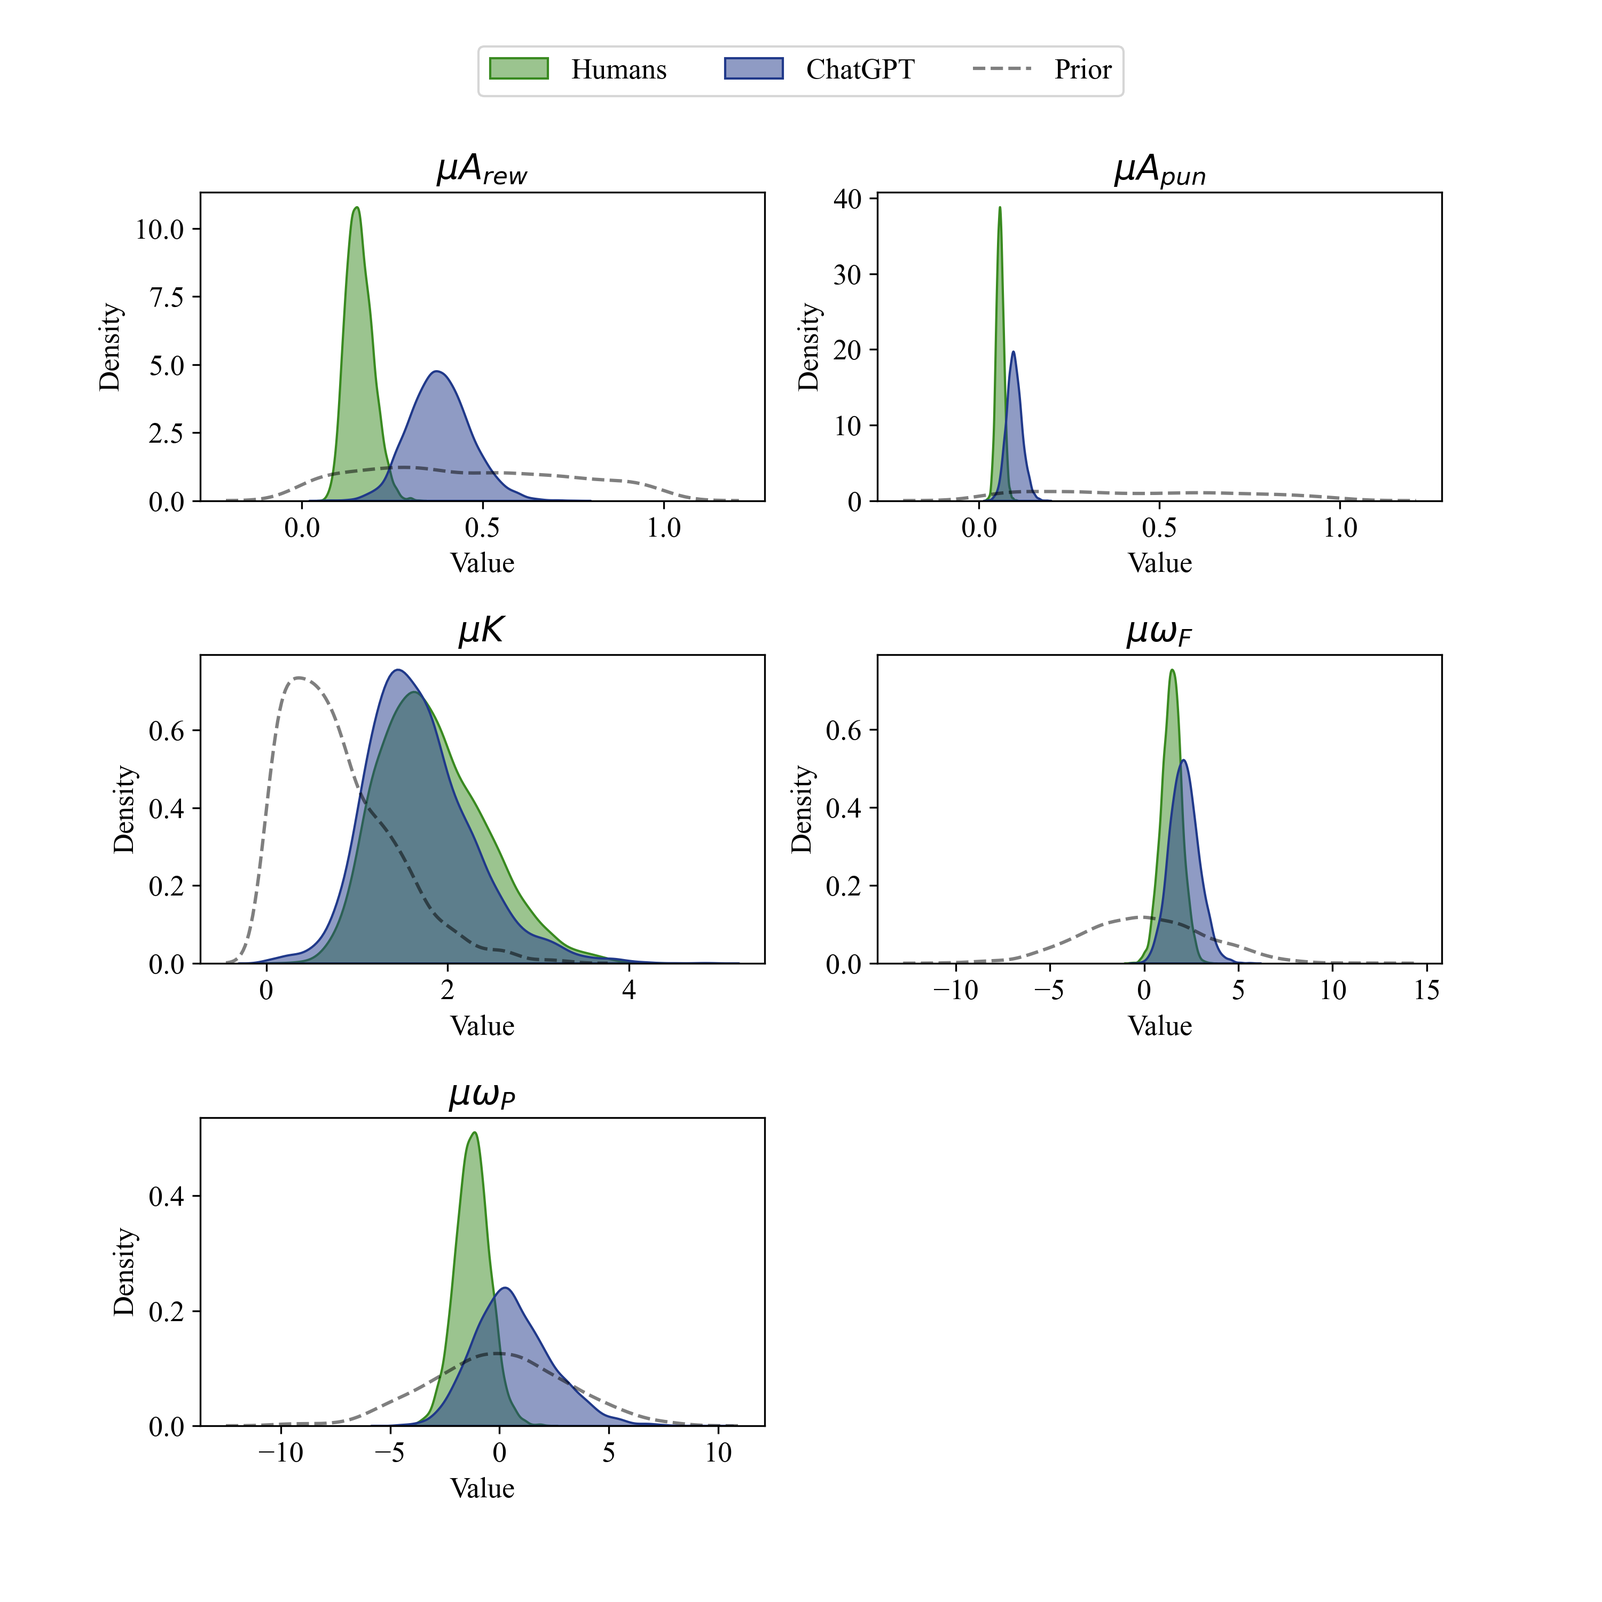
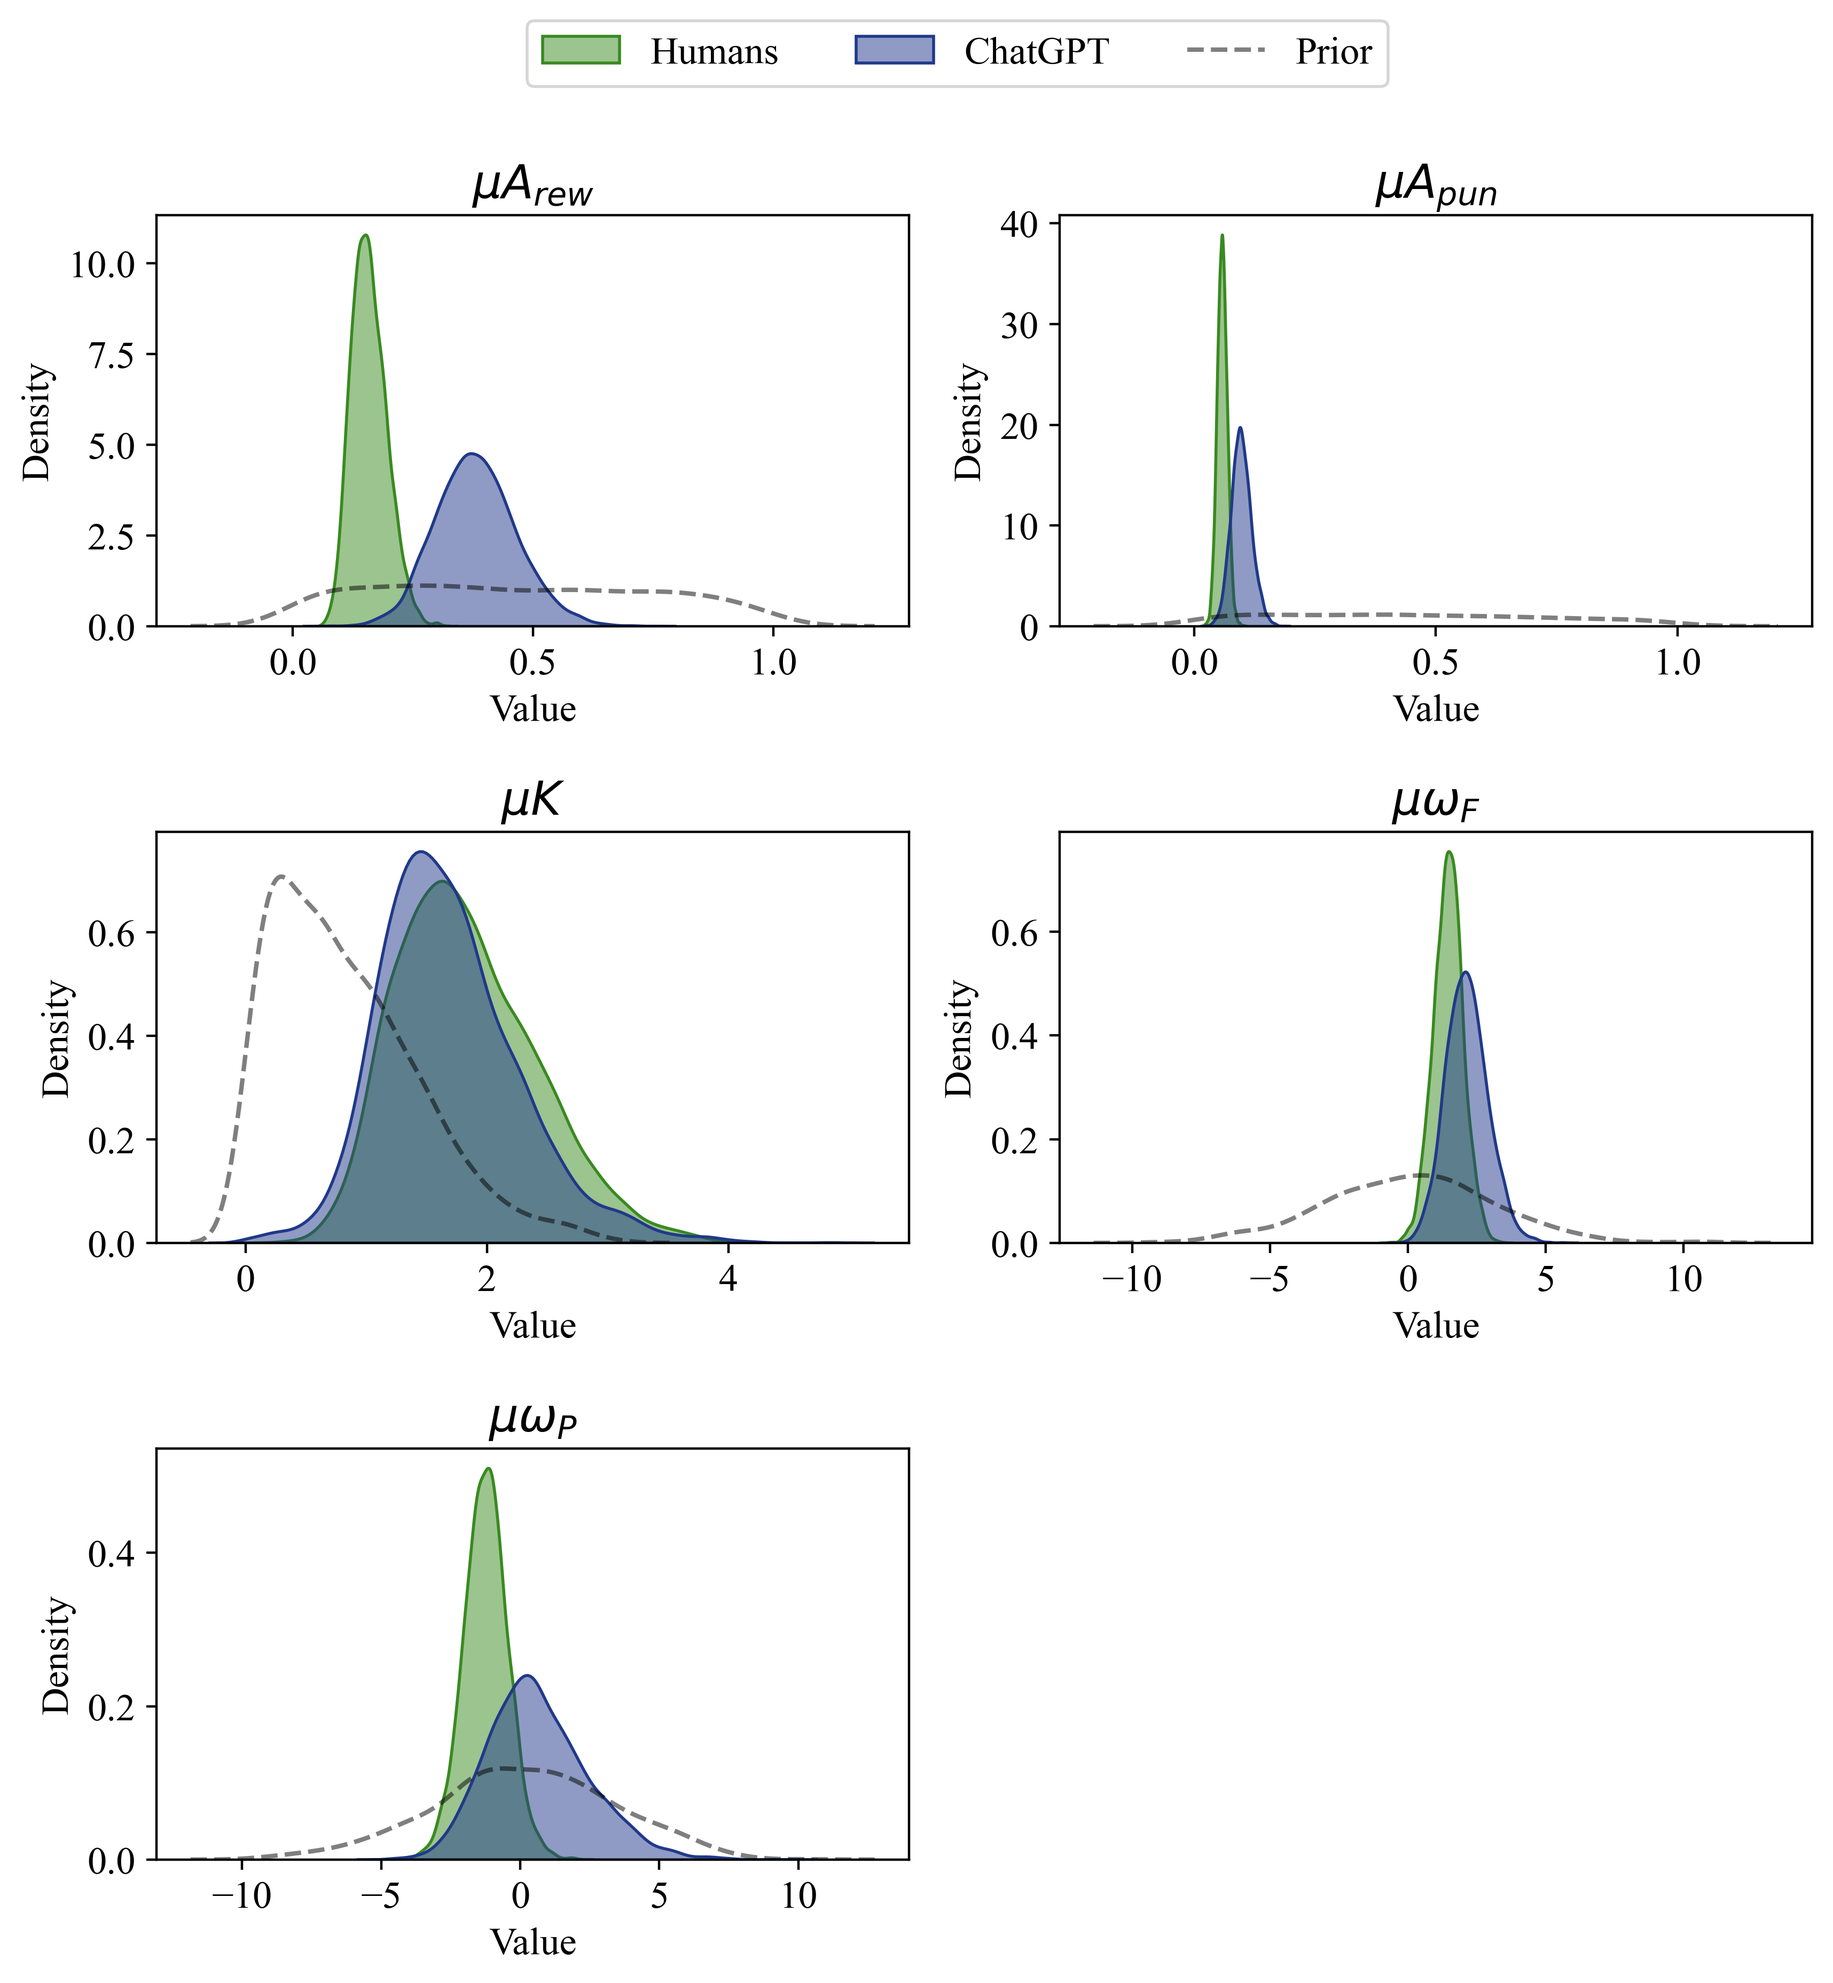
tight layout

diff --git a/src/estimation/plot_estimates.py b/src/estimation/plot_estimates.py
@@ -54,7 +54,7 @@ def plot_posteriors(hc_data, gpt_data, colors=["#398A20", "#20398A"],
         if show_priors and priors:
             prior_samples = priors[param_name](1000)
             sns.kdeplot(prior_samples, ax=ax, color="k", linestyle="--", alpha=0.5)
-
+    
         ax.set_title(param_title)
         ax.set_xlabel("Value")
         ax.set_ylabel("Density")
@@ -68,6 +68,9 @@ def plot_posteriors(hc_data, gpt_data, colors=["#398A20", "#20398A"],
     # Hide the last subplot if the number of parameters is less than total subplots
     if len(parameters) < total_subplots:
         axs[-1, -1].axis('off')
+    
+    if save_path is not None:
+        plt.savefig(save_path, dpi=400, bbox_inches='tight')
 
 
 def plot_hc_posteriors(main_hc_sample, other_hc_samples, 
